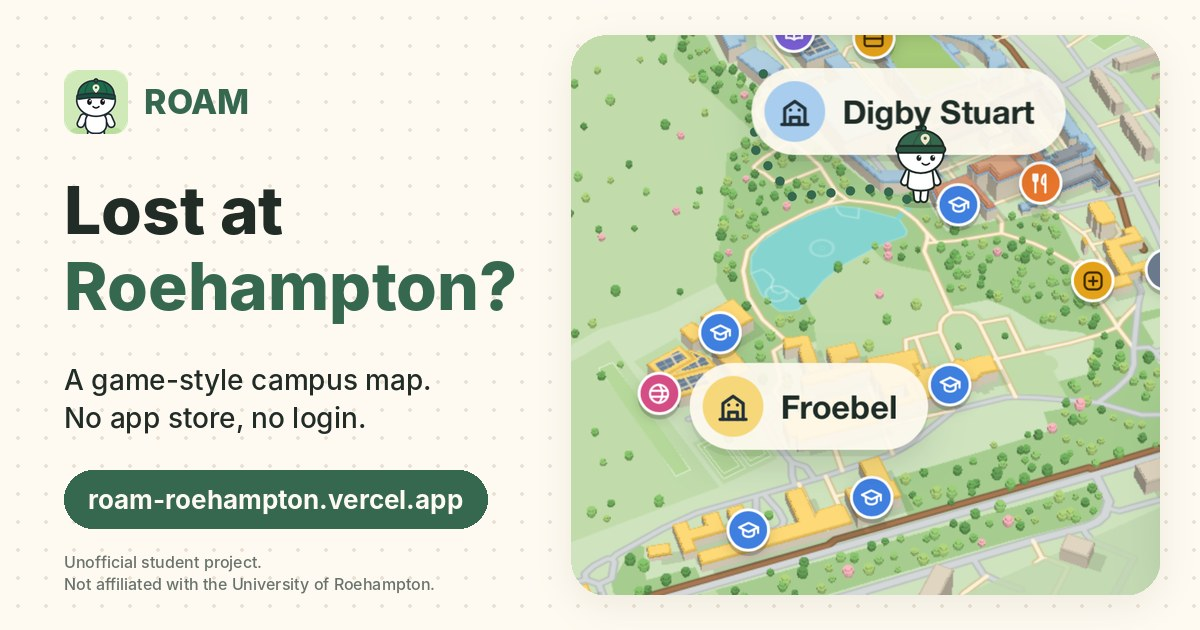
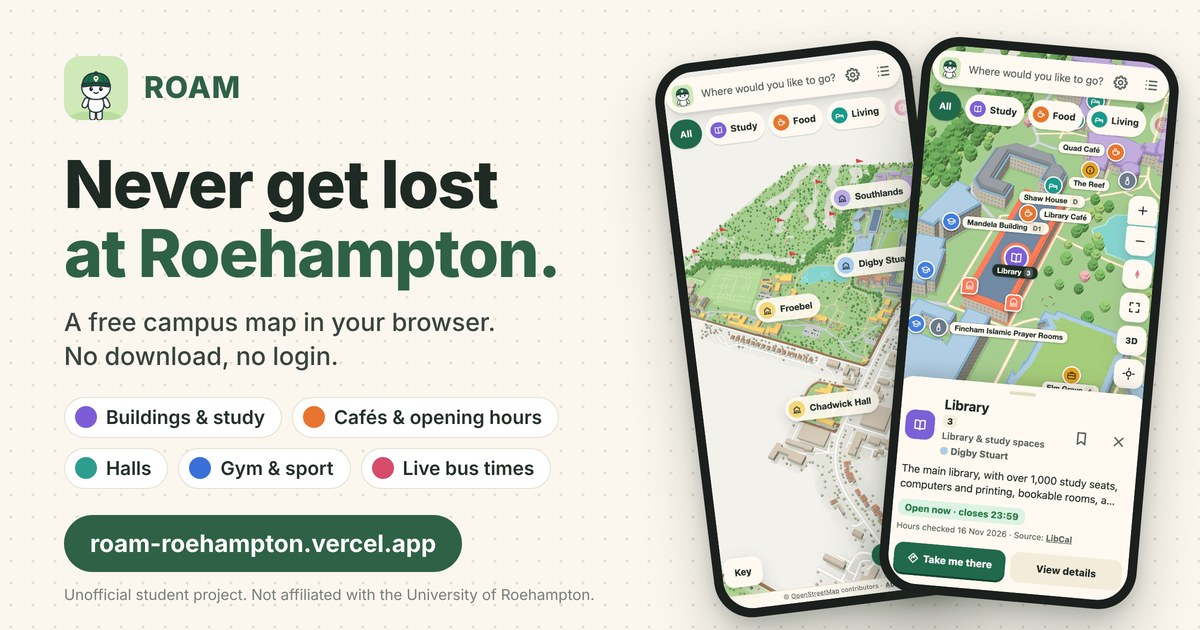
Link preview: new share image with two phones (campus map and the Library card), features listed, and a fuller description
Claude-Session: https://claude.ai/code/session_01LAXVVbxAU1GjEe1AdLJb3Z

diff --git a/index.html b/index.html
@@ -11,12 +11,12 @@
     <meta property="og:site_name" content="Roam" />
     <meta property="og:url" content="https://roam-roehampton.vercel.app/" />
     <meta property="og:title" content="Roam · University of Roehampton campus map" />
-    <meta property="og:description" content="Find buildings, cafés and opening hours on the Roehampton Lane campus. No app store, no login. An independent student project." />
-    <meta property="og:image" content="https://roam-roehampton.vercel.app/og.jpg" />
+    <meta property="og:description" content="Find buildings, cafés, opening hours, halls and live bus times at Roehampton. Free in your browser: no download, no login. An independent student project." />
+    <meta property="og:image" content="https://roam-roehampton.vercel.app/og.jpg?v=2" />
     <meta property="og:image:type" content="image/jpeg" />
     <meta property="og:image:width" content="1200" />
     <meta property="og:image:height" content="630" />
-    <meta property="og:image:alt" content="Roam: a game-style map of the Roehampton Lane campus, with Digby Stuart and Froebel marked." />
+    <meta property="og:image:alt" content="Roam on two phones: the Roehampton campus map, and the Library card with opening hours and a Take me there button." />
     <meta property="og:locale" content="en_GB" />
     <meta name="twitter:card" content="summary_large_image" />
     <meta name="color-scheme" content="light" />
